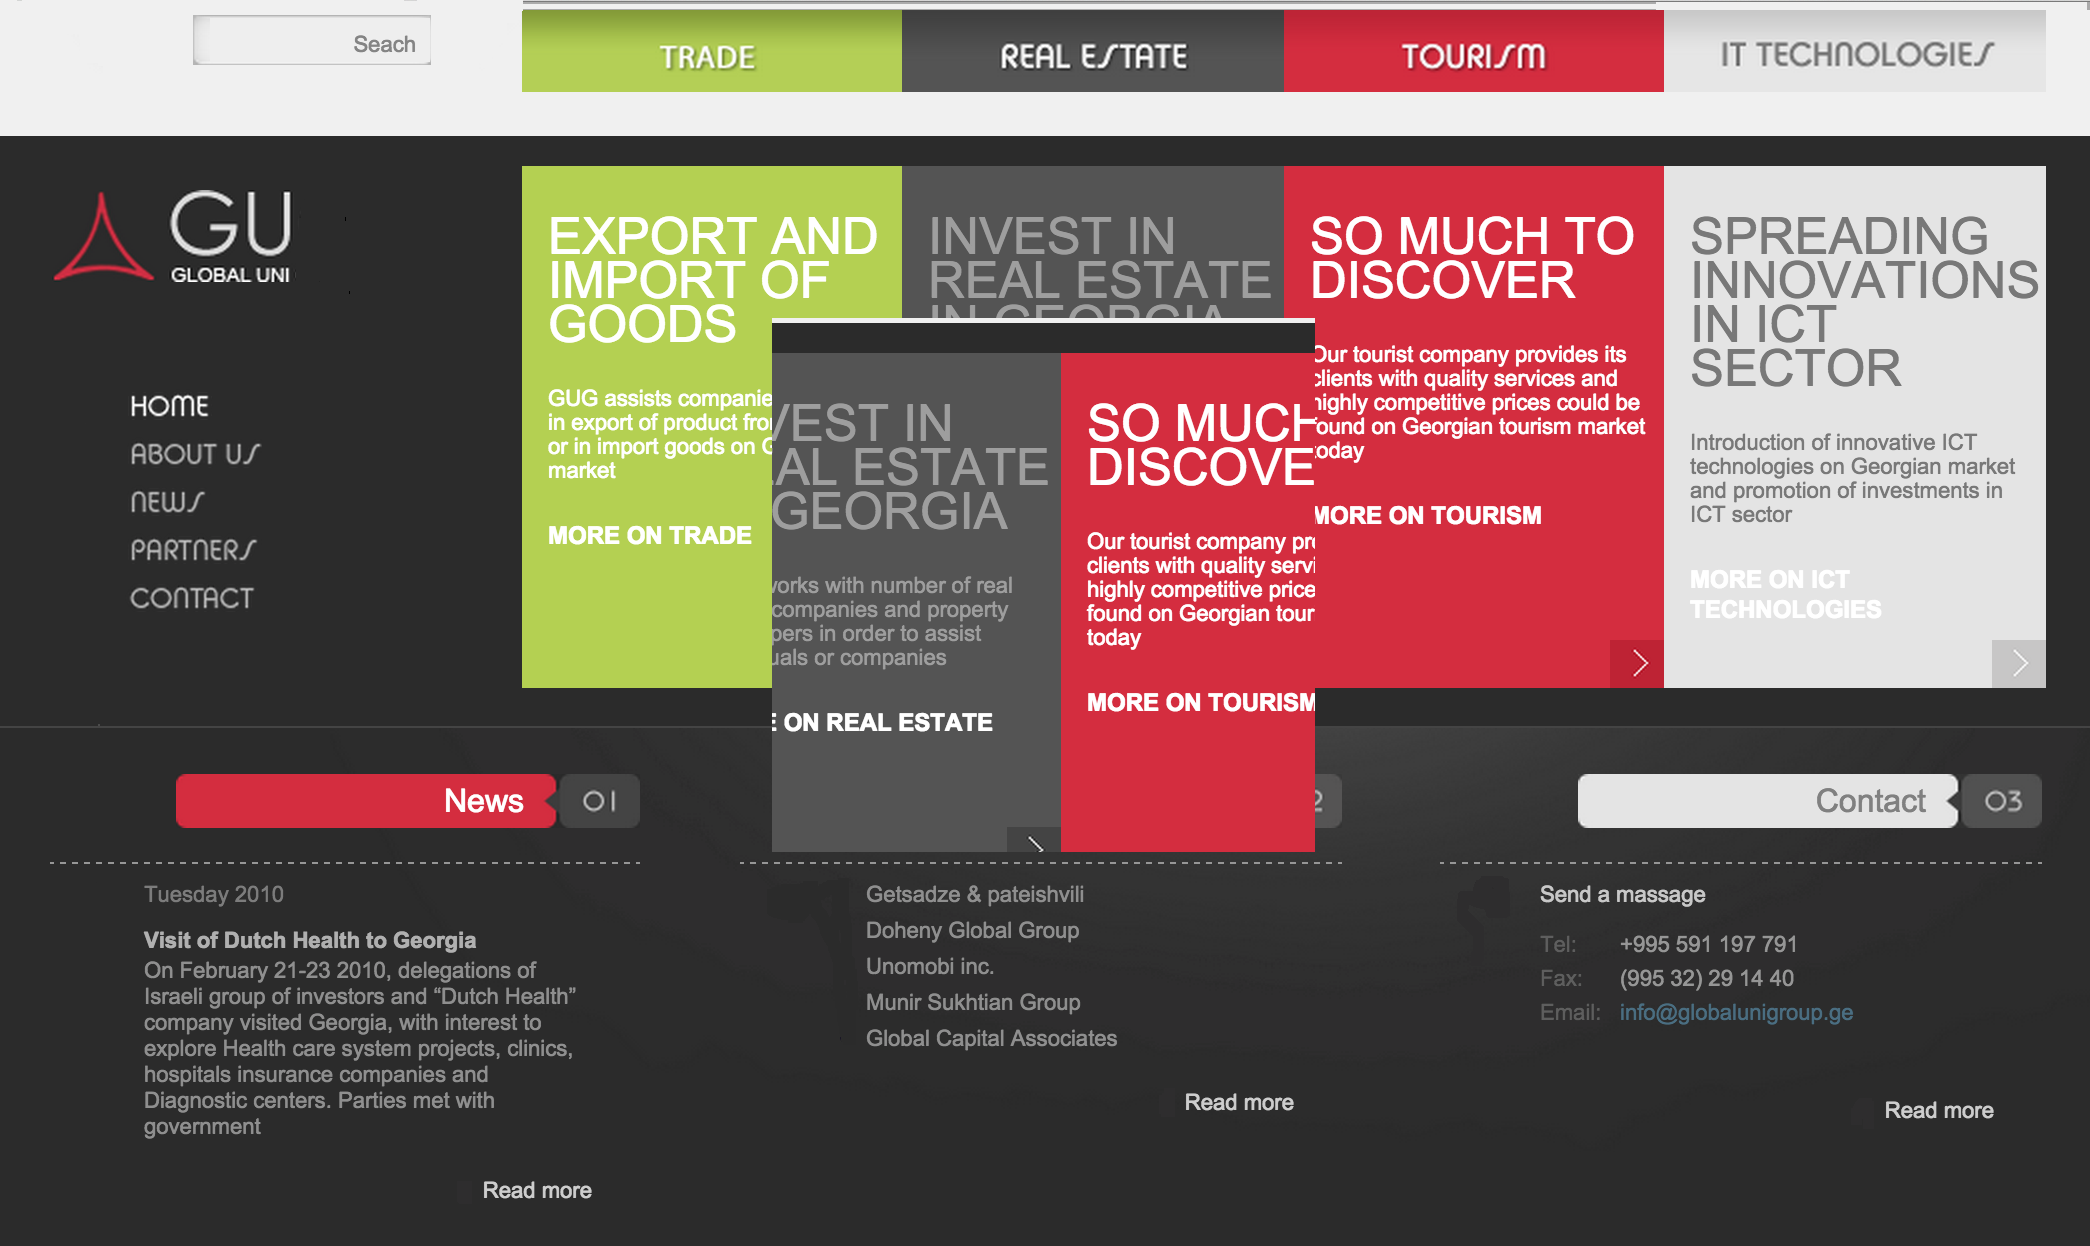
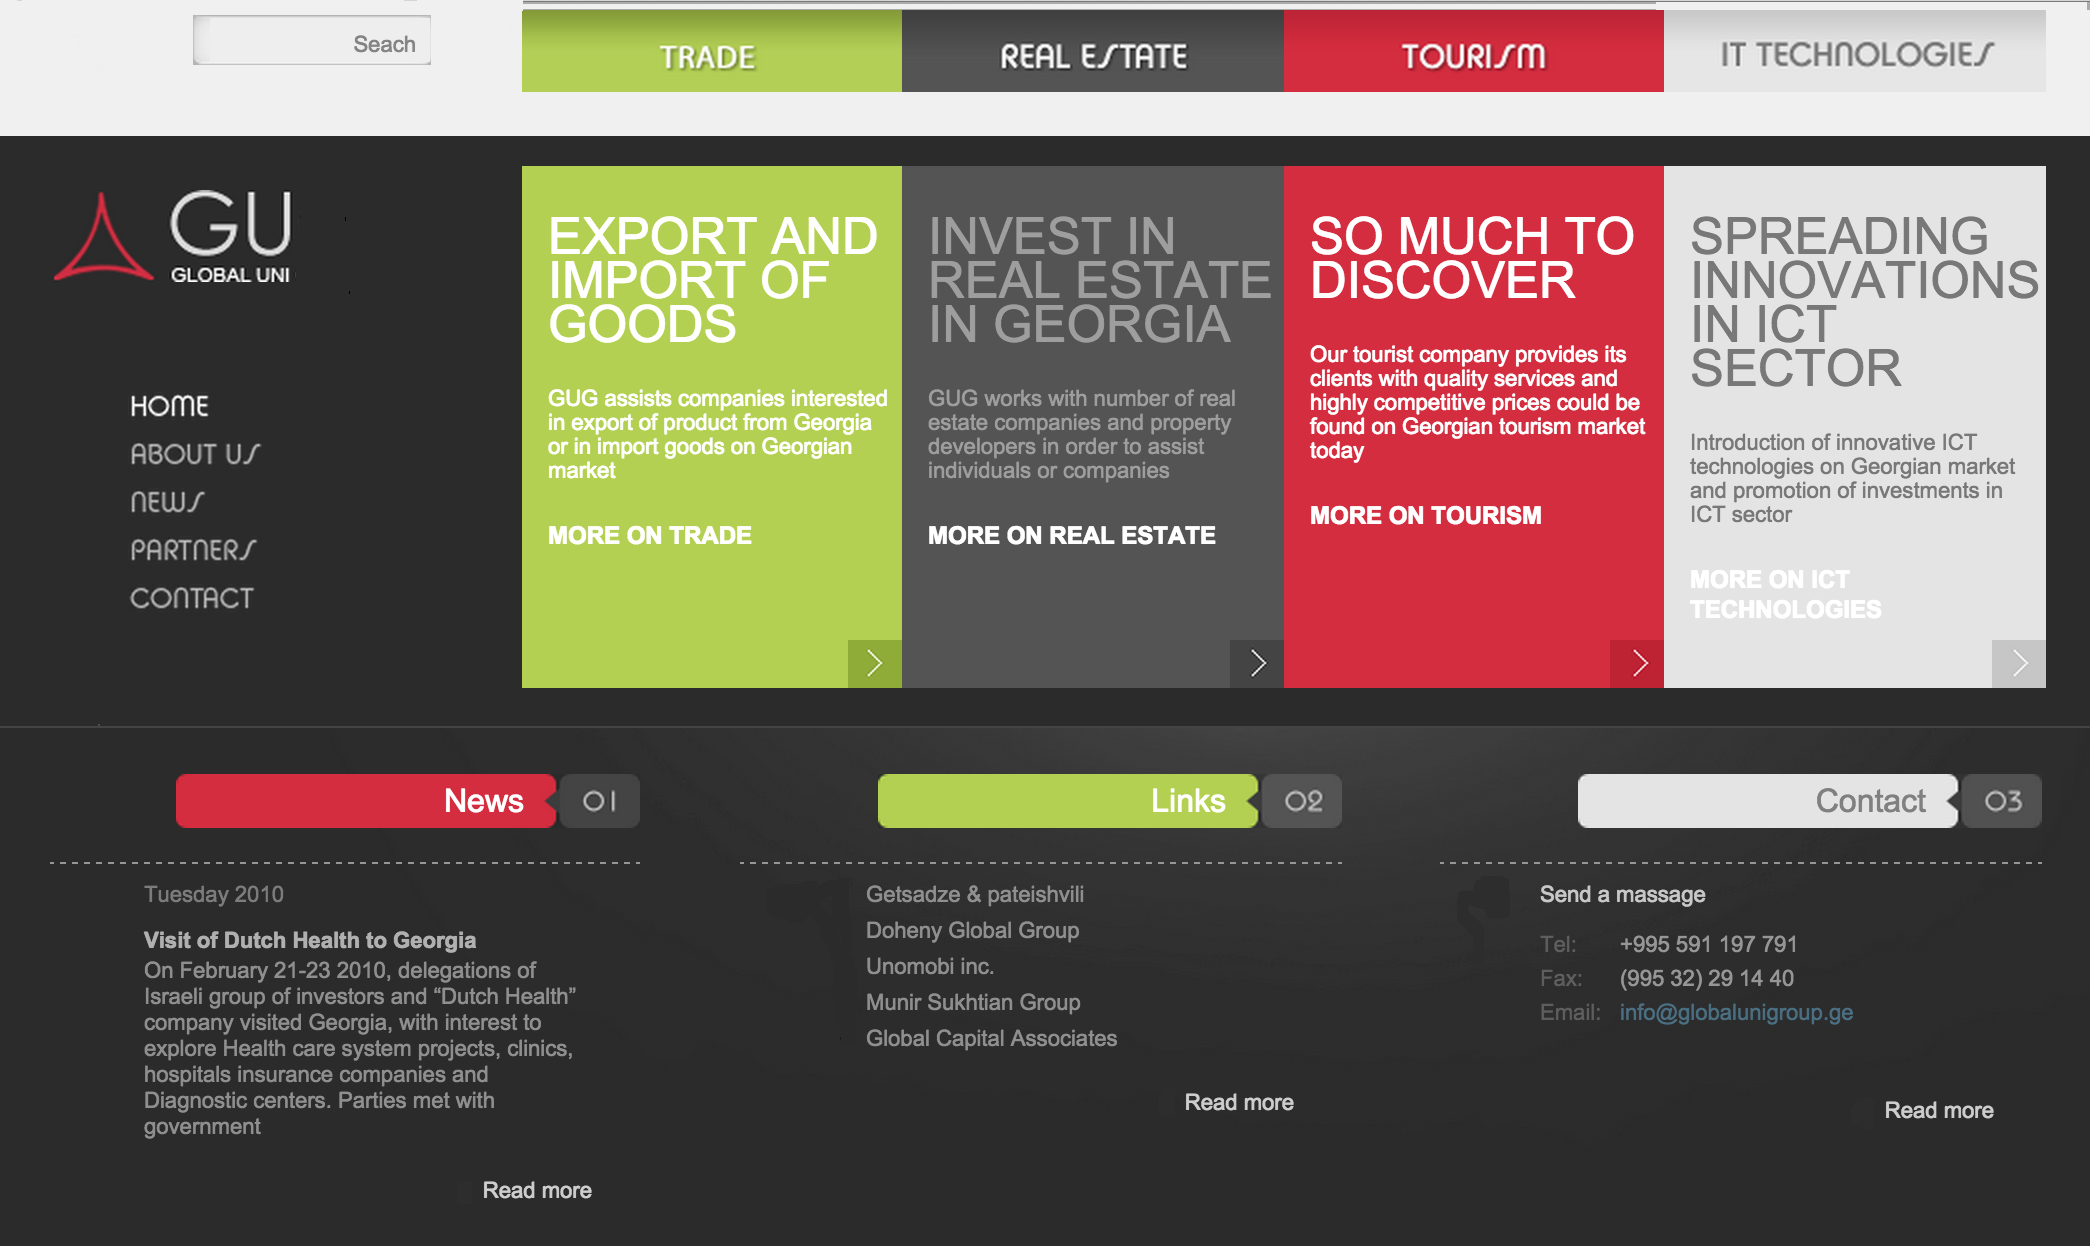
Practica CSS Solos

Changed region(s): [[0.3421, 0.244, 0.6531, 0.7014]]

diff --git a/practicacss03/index.html b/practicacss03/index.html
@@ -3,11 +3,15 @@
 <head>
 	<meta charset="UTF-8">
 	<title>Practica 03 - Yo solo</title>
+	<link rel="stylesheet" href="css/estilos.css">
 </head>
 <body>
+
+	
+
 	<header>
 		
-		<input type="search">
+		<input type="search" placeholder="Search">
 		<img src="img/menu.png" id="menu" alt="">
 
 	</header>
@@ -37,7 +41,8 @@
 
 	</article>
 	
-	<article>
+	<article id="seccGris">
+		
 		<span class="colorgris letramediana">INVEST IN REAL ESTATE IN GEORGIA</span>
 		<br>
 		GUG works with number of real estate companies and property
@@ -47,7 +52,7 @@
 		
 	</article>
 	
-	<article>
+	<article id="seccRojo">
 		<span class="colorblanco letramediana">SO MUCH TO DISCOVER</span>
 		<br>
 		Our tourist company provides its clients with quality services
@@ -57,7 +62,7 @@
 		<span class="colorblanco nito">MORE ON TOURISM</span>
 	</article>
 	
-	<article>
+	<article id="seccBlanco">
 		<span class="colorgris letramediana">SPREADING INNOVATIONS IN ICT SECTOR</span>
 		<br>
 		Introduction of innovative ICT technologies on Georgian market
@@ -65,5 +70,52 @@
 		<p>
 		<span class="colorblanco nito">MORE ON ICT TECHNOLOGIES</span>
 	</article>
+
+	<footer>
+		<article class="colorgris">
+			<img src="img/news_rojo.png" alt="">
+			<br>
+			Thuesday 2010
+			<br>
+			<br>
+			<span class="nito colorLgris" id="spanUno"> Visit of Dutch Health to Georgia</span>
+			<br>
+			On February 21-23 2010, delegations of Israeli group of
+			investigators and "Dutch Health" company visited Georgia,
+			with interest to explore Health care system projects, clinics,
+			hospitals insurance companies and Diagnostic centers. Parties
+			met with government.
+			<p>
+			<span class="nito aliDerecha colorLgris" id="spanDos"> Read more</span>
+
+		</article>
+
+		<article>
+			<img src="img/news_verde.png" alt="">
+			<br>
+			Getsadze & pateishvili <br>
+			Doheny Hlobal Group <br>
+			Unomobi inc. <br>
+			Munir Sukhtian Group <br>
+			Global Capital Associates <br>
+			<p>
+			<span class="nito aliDerecha colorLgris"> Read More</span>
+		</article>
+		<article>
+			<img src="img/news_claro.png" alt="">
+			<br>
+			<span class="nito" id="spanTres"> Send a message</span>
+
+			<ul>
+				<li>Tel:	&nbsp;&nbsp;&nbsp;&nbsp;&nbsp;+995 591 197 791</li>
+				<li>Fax:	&nbsp;&nbsp;&nbsp;&nbsp;(995 32) 29 14 40</li>
+				<li>Email:	&nbsp;info@globalunigroup.ge</li>
+			</ul>
+
+			<span class="nito aliDerecha colorLgris" id="spanCuatro">Read more</span>
+
+		</article>
+	</footer>
+
 </body>
 </html>

diff --git a/practicacss03/css/estilos.css b/practicacss03/css/estilos.css
@@ -1,0 +1,50 @@
+body{
+	font-size: 16px;
+	color: white;
+	margin: 0px auto;
+	max-width: 1078px;
+	min-width: 1078px;
+	background: #2B2B2B;
+}
+
+header input {
+
+}
+
+article{
+	border: 1px solid tomato;
+}
+
+#seccVerde{
+	background-color: #BAD65C;
+}
+
+#seccGris{
+	background-color: #545454;
+}
+
+#seccRojo{
+	background-color: #d52e3f; 
+}
+
+#seccBlanco{
+	background-color: #e4e4e4; 
+}
+
+.colorblanco{
+	color: white;
+}
+
+
+.colorgris{
+	color: gray;
+}
+
+.colorLgris{
+	color: lightgray;
+}
+
+.nito{
+	font-weight: bold;
+}
+
